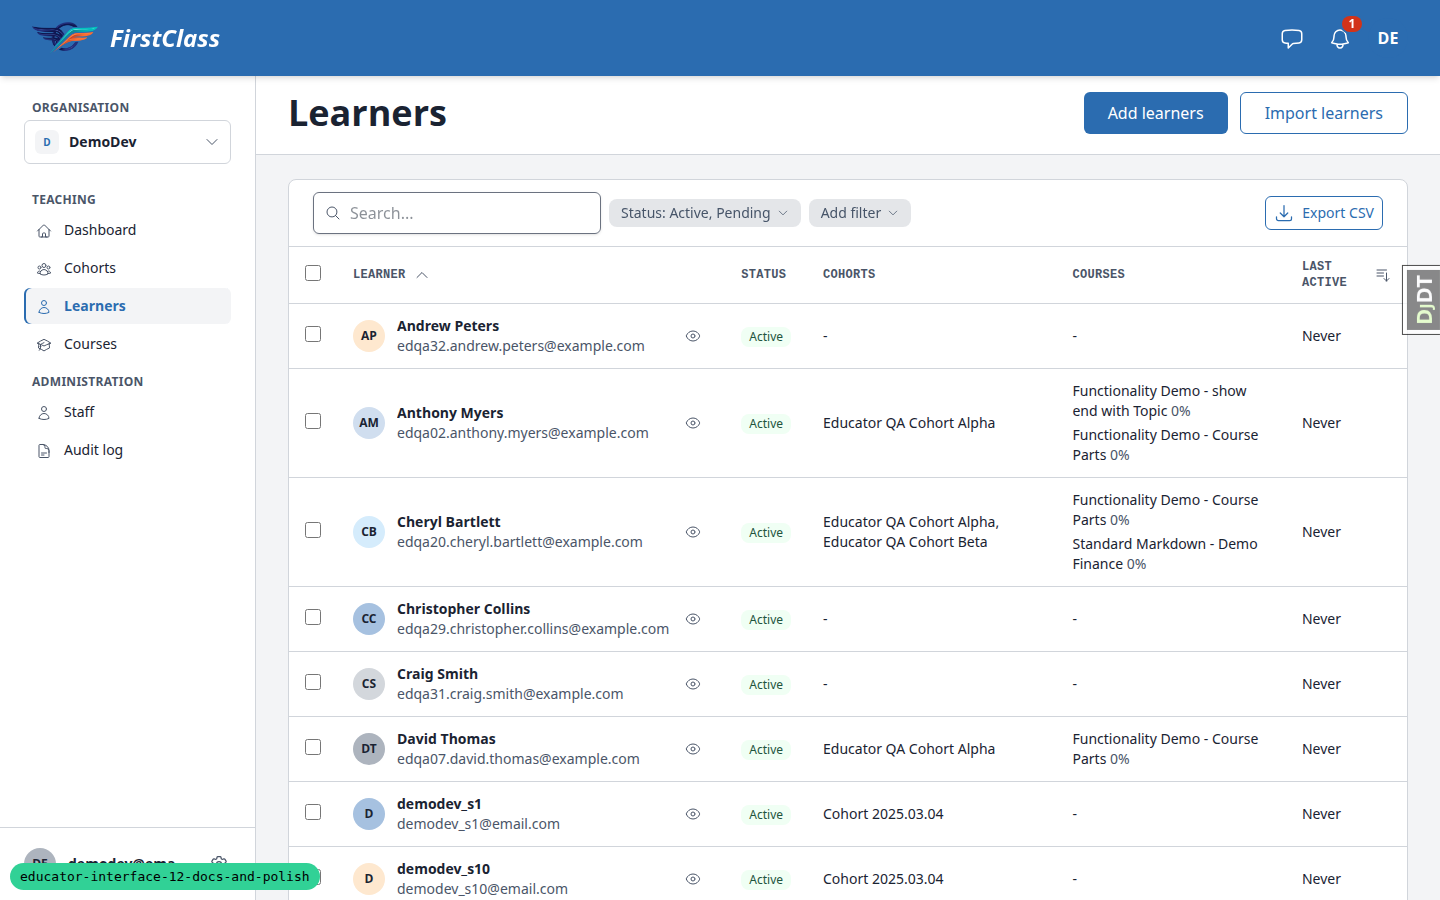
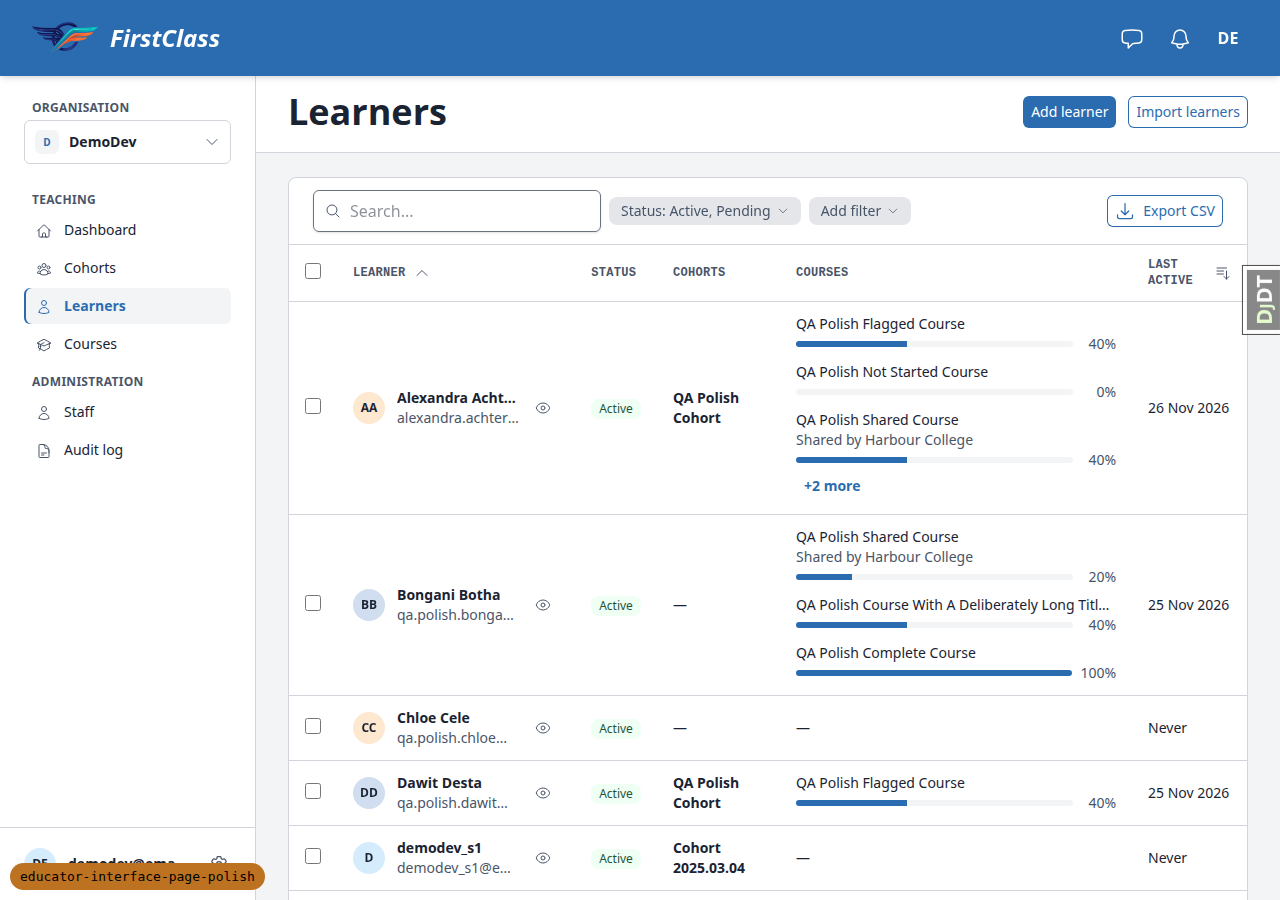
educator-interface-page-polish: update the product docs

diff --git a/docs/product/educator-interface.md b/docs/product/educator-interface.md
@@ -21,7 +21,7 @@ _Last updated: 2026-11-27_
 
 ![Dashboard with learner, cohort, average progress and needs-attention tiles above the list of learners needing attention](screenshots/educator_dashboard.png)
 
-The dashboard is the first page an educator sees. It covers every active cohort they can see in the current organisation: tiles for learners, cohorts, average progress and learners needing attention, a list of flagged learners across those cohorts, and one progress row per cohort. A cohort larger than the report's learner limit is left out, and the dashboard says so. There are no charts.
+The dashboard is the first page an educator sees. It covers every active cohort they can see in the current organisation: tiles for learners, cohorts, average progress and learners needing attention, a list of flagged learners across those cohorts, and one progress row per cohort. A cohort larger than the report's learner limit is left out, and the dashboard says so. There are no charts. Learner, cohort and course names link to their pages, the learner and cohort tiles open their lists, and a named learner or cohort also opens its quick view.
 
 A learner with nothing to do yet, because their cohort is not registered for a course, is never flagged as needing attention, and nor is a learner who has finished everything. Overdue learners are not flagged either; see [Limits](#limits). The figures are recalculated every few minutes rather than live, and the page says when they are from. See [Reports](#reports).
 
@@ -31,7 +31,7 @@ A learner with nothing to do yet, because their cohort is not registered for a c
 
 ![Learners list with search, status filter and Export CSV above a table of each learner's status, cohorts and course progress](screenshots/educator_learners_list.png)
 
-The Learners list shows the learners of the current organisation the educator has access to: learners in cohorts they can see, plus, for an educator holding an organisation-wide role, everyone associated with the organisation, whether or not they are registered for anything yet. Someone studying with more than one organisation appears once per organisation, with only that organisation's cohorts and registrations.
+The Learners list shows the learners of the current organisation the educator has access to: learners in cohorts they can see, plus, for an educator holding an organisation-wide role, everyone associated with the organisation, whether or not they are registered for anything yet. Someone studying with more than one organisation appears once per organisation, with only that organisation's cohorts and registrations. The Courses column shows up to three of each learner's courses with their progress, courses with at-risk flags first, then those in progress, and links to the rest on the learner's Courses tab.
 
 Each learner is **Active**, **Pending** (staff created their account and they have not yet set a password and signed in) or **Inactive**. The list shows Active and Pending until the Status filter asks for others, and clearing the filter returns to that view. A learner with no name is shown by email. The list can be searched, filtered and sorted, and **Export CSV** downloads what the list shows (name, email, status, cohorts, courses and last active date), narrowed by the current search and filters. A cohort's Learners tab exports the same way.
 
@@ -42,9 +42,9 @@ Each learner is **Active**, **Pending** (staff created their account and they ha
 The header shows the name and email, and a badge only while the learner is Pending or Inactive. The tabs are:
 
 - **Overview**: details, cohorts and course registrations. The Cohorts panel is where the learner's cohorts are changed.
-- **Courses**: for each registered course, completion, a progress status and any at-risk flags, the items completed and the last one, and every quiz attempt with its score and the quiz's pass mark. A completed attempt opens, in a quick view or on its own page, to show the paper the learner was served, in their order, with their answers and how each question was marked, and whether the learner submitted it or [time ran out](./learner-experience.md#quiz-time-limit), with the time limit that applied. The paper is shown only to a question bank viewer; anyone else sees a note in its place. Questions and options use the quiz's current wording, and an attempt sat before FLS recorded the served order says so. This tab is where the learner is registered for a course.
+- **Courses**: every registration with its progress, status and any at-risk flags, then a section for each course with the items completed and every quiz attempt with its score and the quiz's pass mark. A completed attempt opens, in a quick view or on its own page, to show the paper the learner was served, in their order, with their answers and how each question was marked, and whether the learner submitted it or [time ran out](./learner-experience.md#quiz-time-limit), with the time limit that applied. The paper is shown only to a question bank viewer; anyone else sees a note in its place. Questions and options use the quiz's current wording, and an attempt sat before FLS recorded the served order says so. This tab is where the learner is registered for a course.
 - **Messages**: when direct messaging is turned on. See [Messaging from a learner](#messaging-from-a-learner).
-- **Settings**: the actions with no home elsewhere: the name, the setup email, and deactivating or reactivating. Shown to anyone who may take at least one of them.
+- **Settings**: the actions with no home elsewhere: the name (shown with the learner's email, which is read-only here), the setup email, and deactivating or reactivating. Shown to anyone who may take at least one of them.
 - **History**: see [History](#history).
 
 Each control sits beside what it changes:
@@ -89,7 +89,7 @@ Tick rows in the Learners or Cohorts list and a selection bar takes the place of
 - **Learners**: add to a cohort, remove from a cohort, register for a course, deactivate a course registration, deactivate, reactivate, and resend the account setup email.
 - **Cohorts**: register for a course, deactivate a course registration, deactivate and reactivate.
 
-Each action offers only what the educator could do to a single learner or cohort, and each row is checked on its own. Rows the educator may not change are skipped rather than blocking the rest. Nothing runs before a confirmation that says what will change and how many rows will be skipped, and why. Afterwards a result gives the counts (how many changed, how many were skipped and why) and names only the rows that failed. Each row is handled as if done by hand, so [webhook](./webhooks.md) events and emails fire once per learner or cohort changed.
+Each action offers only what the educator could do to a single learner or cohort, and each row is checked on its own. Rows the educator may not change are skipped rather than blocking the rest. Nothing runs before a confirmation that says what will change and how many rows will be skipped, and why. Afterwards a result gives the counts (how many changed, how many were skipped and why) and names only the rows that failed. Each row is handled as if done by hand, so [webhook](./webhooks.md) events and emails fire once per learner or cohort changed. A run that happens within the request cannot be closed or cancelled until it finishes; if it fails, the educator is told to reload the list and run it again.
 
 Runs over `BULK_BACKGROUND_THRESHOLD` rows (default 250) continue in the background: the educator can leave the list, and an in-app notification says when the run is done.
 
